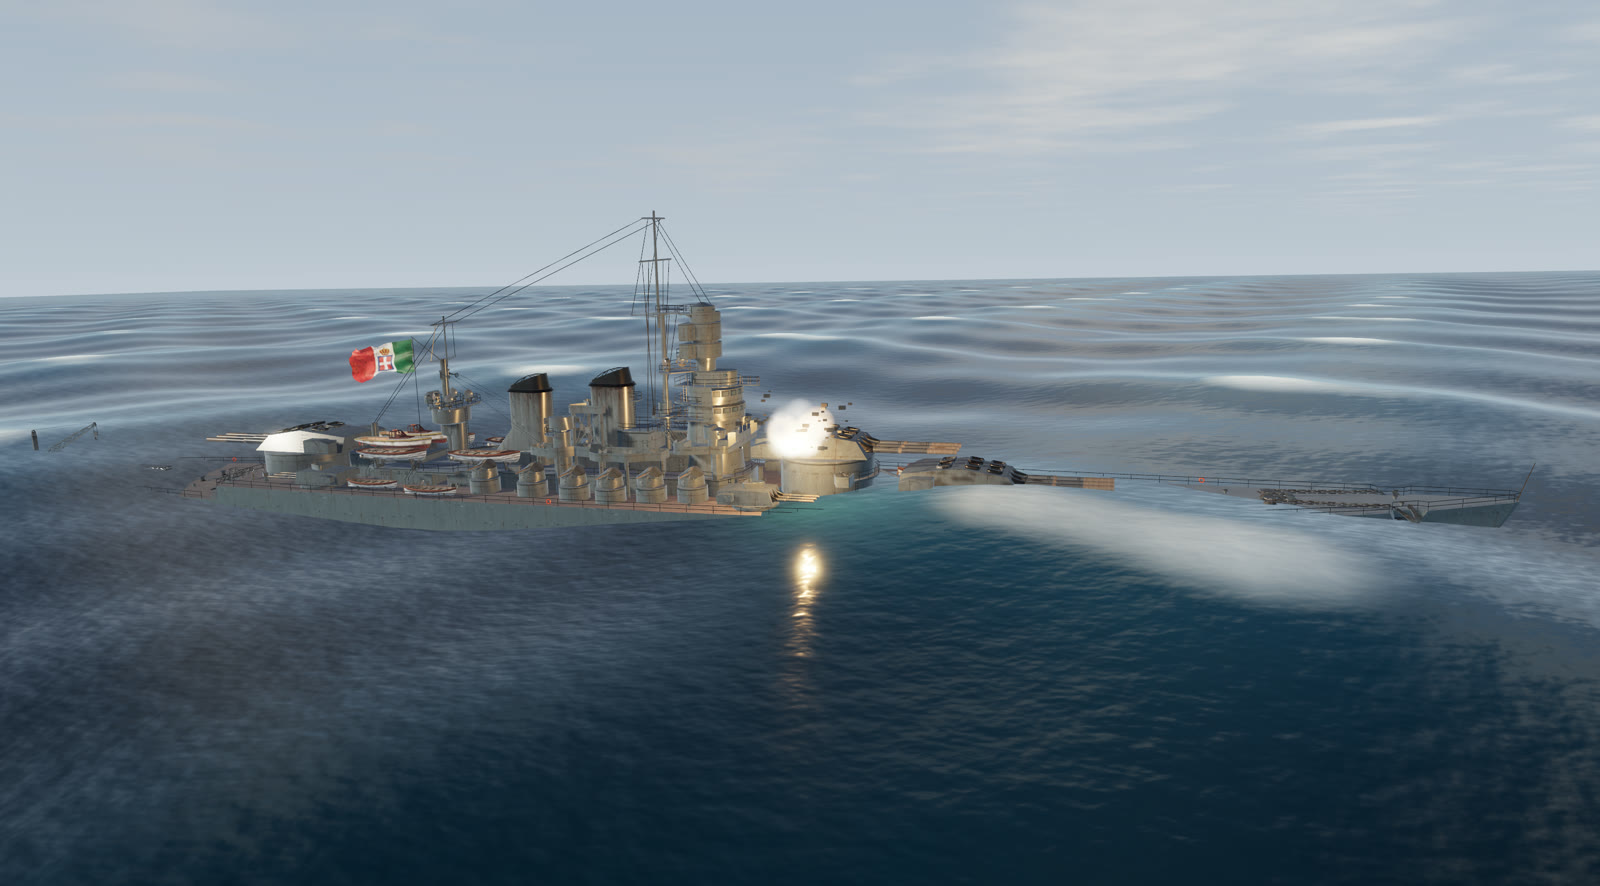
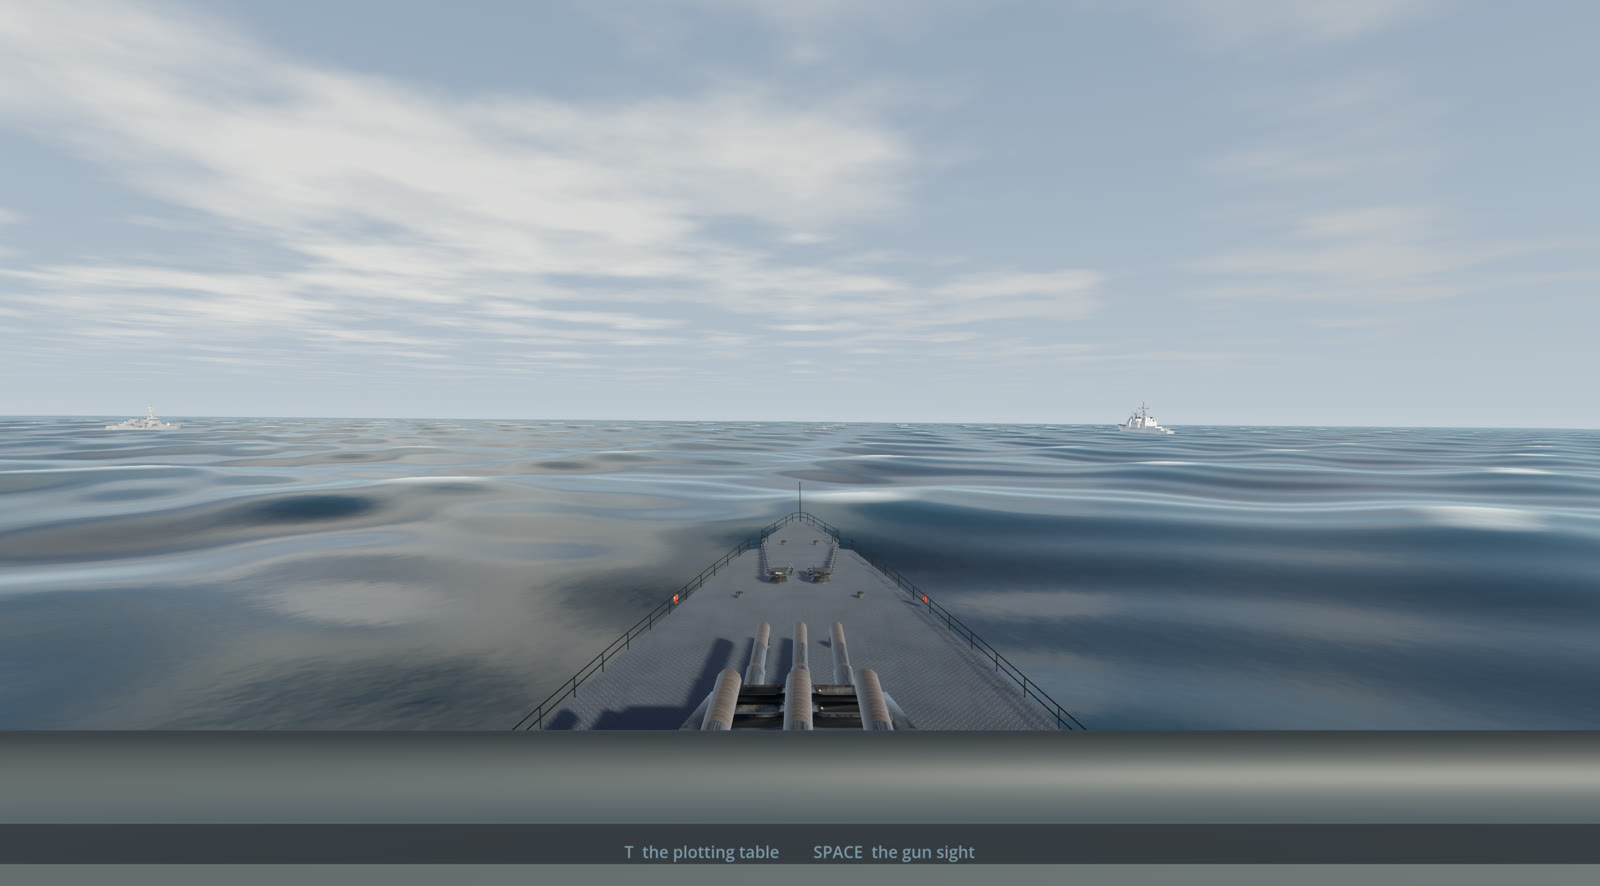
Direct Hit is now a first-person bridge game
Rewrote the card and swapped the image for the view from the bridge. The game
was rebuilt on 2026-09-17: no chart on a screen, a plotting table and a director
sight on the deck of a battleship.

diff --git a/docs/index.html b/docs/index.html
@@ -127,7 +127,7 @@ details.fold > div { padding: 2px 0 18px 22px; }
   <p class="eyebrow"><b>Portfolio</b><span>Project record · built 2026-09-17 from main</span></p>
   <h1>Portfolio</h1>
   <p class="thesis">Luqman's personal portfolio site: a single self-contained <code>index.html</code> that positions him as an <strong>AI full stack developer</strong> with 3D and game craft as the differentiator. It exists to win remote/international AI engineering roles, and it must survive a stranger opening the GitHub repo before ever speaking to him.</p>
-  <div class="stats"><div class="stat"><b>27</b><span>commits</span></div><div class="stat"><b>6</b><span>days of work</span></div><div class="stat"><b>1</b><span>source files</span></div><div class="stat"><b>1,869</b><span>lines of code</span></div><div class="stat"><b>4</b><span>decisions recorded</span></div><div class="stat"><b>4</b><span>sessions logged</span></div></div>
+  <div class="stats"><div class="stat"><b>29</b><span>commits</span></div><div class="stat"><b>6</b><span>days of work</span></div><div class="stat"><b>2</b><span>source files</span></div><div class="stat"><b>2,692</b><span>lines of code</span></div><div class="stat"><b>4</b><span>decisions recorded</span></div><div class="stat"><b>4</b><span>sessions logged</span></div></div>
   
 </header>
 <section class="chapter notes" id="overview">
@@ -787,7 +787,7 @@ grep -o &#x27;&quot;url&quot;:&quot;https:\\/\\/www\.behance\.net\\/gallery\\/[^
 <section class="chapter" id="history">
   <p class="kicker">git log on main, newest first</p>
   <h2>Git history</h2>
-  <details class="fold"><summary><span>Every commit</span></summary><div><div class="table"><table><thead><tr><th>Commit</th><th>Date</th><th>Change</th></tr></thead><tbody><tr class=""><td><code>9f3f3ec</code></td><td class="nowrap">2026-09-17</td><td>link each project record from its card</td></tr><tr class=""><td><code>2bbb17e</code></td><td class="nowrap">2026-09-17</td><td>add Direct Hit to the games section</td></tr><tr class=""><td><code>6f53775</code></td><td class="nowrap">2026-09-16</td><td>Link the Referee For Fun card to its live page</td></tr><tr class=""><td><code>5a4b83a</code></td><td class="nowrap">2026-09-16</td><td>correct Referee For Fun to six sports</td></tr><tr class=""><td><code>62d7497</code></td><td class="nowrap">2026-09-16</td><td>point the Auxetic Chess card at the live game</td></tr><tr class=""><td><code>f9c1e08</code></td><td class="nowrap">2026-09-15</td><td>auxetic chess: per-level leaderboards</td></tr><tr class=""><td><code>8aaff61</code></td><td class="nowrap">2026-09-15</td><td>Referee For Fun card: real-event venues</td></tr><tr class=""><td><code>374d5da</code></td><td class="nowrap">2026-09-15</td><td>Link Auxetic Chess and Kedai Runtuh cards to their now-public repos</td></tr><tr class=""><td><code>e6e7937</code></td><td class="nowrap">2026-09-15</td><td>Referee For Fun card: the broadcast score bug, and a line about it</td></tr><tr class=""><td><code>127790a</code></td><td class="nowrap">2026-09-15</td><td>add stop turning to the auxetic chess card</td></tr><tr class=""><td><code>08a4b15</code></td><td class="nowrap">2026-09-15</td><td>Referee For Fun: badminton is shot like a broadcast now</td></tr><tr class=""><td><code>11df4c5</code></td><td class="nowrap">2026-09-15</td><td>mention the commentators on the Referee For Fun card</td></tr><tr class=""><td><code>11e80ae</code></td><td class="nowrap">2026-09-14</td><td>correct the pawn claim on the auxetic chess card</td></tr><tr class=""><td><code>3279a9e</code></td><td class="nowrap">2026-09-14</td><td>correct the project counts for Line Call</td></tr><tr class=""><td><code>13fb017</code></td><td class="nowrap">2026-09-14</td><td>add Line Call, a playable card on top of the game work</td></tr><tr class=""><td><code>fb792bf</code></td><td class="nowrap">2026-09-14</td><td>note that pawns are frozen by the auxetic chess twist</td></tr><tr class=""><td><code>e05cce7</code></td><td class="nowrap">2026-09-13</td><td>add scribble relay card</td></tr><tr class=""><td><code>6003142</code></td><td class="nowrap">2026-09-13</td><td>stack the work gallery in one column instead of a mixed grid</td></tr><tr class=""><td><code>fb7284e</code></td><td class="nowrap">2026-09-13</td><td>correct fruit ninja vr card: 3d help for a friend, not commercial work</td></tr><tr class=""><td><code>7c7dcae</code></td><td class="nowrap">2026-09-13</td><td>correct the auxetic chess card: it is a variant, not a spin</td></tr><tr class=""><td><code>eba335a</code></td><td class="nowrap">2026-09-13</td><td>name the client on Fruit Ninja VR</td></tr><tr class=""><td><code>244aa21</code></td><td class="nowrap">2026-09-12</td><td>note the turning table on the auxetic chess card</td></tr><tr class=""><td><code>8199143</code></td><td class="nowrap">2026-09-12</td><td>add auxetic chess card</td></tr><tr class=""><td><code>8184d95</code></td><td class="nowrap">2026-09-12</td><td>add LinkedIn to the footer</td></tr><tr class=""><td><code>a181b51</code></td><td class="nowrap">2026-09-12</td><td>show all 20 projects with images, in four categories</td></tr><tr class=""><td><code>97ca745</code></td><td class="nowrap">2026-09-12</td><td>drop unsourced date from the 3D section</td></tr><tr class=""><td><code>85aa119</code></td><td class="nowrap">2026-09-12</td><td>add interactive pastel bento portfolio</td></tr></tbody></table></div></div></details>
+  <details class="fold"><summary><span>Every commit</span></summary><div><div class="table"><table><thead><tr><th>Commit</th><th>Date</th><th>Change</th></tr></thead><tbody><tr class=""><td><code>ecafc68</code></td><td class="nowrap">2026-09-17</td><td>link the record on every card whose project has one</td></tr><tr class=""><td><code>14ebbc6</code></td><td class="nowrap">2026-09-17</td><td>Add the project record</td></tr><tr class=""><td><code>9f3f3ec</code></td><td class="nowrap">2026-09-17</td><td>link each project record from its card</td></tr><tr class=""><td><code>2bbb17e</code></td><td class="nowrap">2026-09-17</td><td>add Direct Hit to the games section</td></tr><tr class=""><td><code>6f53775</code></td><td class="nowrap">2026-09-16</td><td>Link the Referee For Fun card to its live page</td></tr><tr class=""><td><code>5a4b83a</code></td><td class="nowrap">2026-09-16</td><td>correct Referee For Fun to six sports</td></tr><tr class=""><td><code>62d7497</code></td><td class="nowrap">2026-09-16</td><td>point the Auxetic Chess card at the live game</td></tr><tr class=""><td><code>f9c1e08</code></td><td class="nowrap">2026-09-15</td><td>auxetic chess: per-level leaderboards</td></tr><tr class=""><td><code>8aaff61</code></td><td class="nowrap">2026-09-15</td><td>Referee For Fun card: real-event venues</td></tr><tr class=""><td><code>374d5da</code></td><td class="nowrap">2026-09-15</td><td>Link Auxetic Chess and Kedai Runtuh cards to their now-public repos</td></tr><tr class=""><td><code>e6e7937</code></td><td class="nowrap">2026-09-15</td><td>Referee For Fun card: the broadcast score bug, and a line about it</td></tr><tr class=""><td><code>127790a</code></td><td class="nowrap">2026-09-15</td><td>add stop turning to the auxetic chess card</td></tr><tr class=""><td><code>08a4b15</code></td><td class="nowrap">2026-09-15</td><td>Referee For Fun: badminton is shot like a broadcast now</td></tr><tr class=""><td><code>11df4c5</code></td><td class="nowrap">2026-09-15</td><td>mention the commentators on the Referee For Fun card</td></tr><tr class=""><td><code>11e80ae</code></td><td class="nowrap">2026-09-14</td><td>correct the pawn claim on the auxetic chess card</td></tr><tr class=""><td><code>3279a9e</code></td><td class="nowrap">2026-09-14</td><td>correct the project counts for Line Call</td></tr><tr class=""><td><code>13fb017</code></td><td class="nowrap">2026-09-14</td><td>add Line Call, a playable card on top of the game work</td></tr><tr class=""><td><code>fb792bf</code></td><td class="nowrap">2026-09-14</td><td>note that pawns are frozen by the auxetic chess twist</td></tr><tr class=""><td><code>e05cce7</code></td><td class="nowrap">2026-09-13</td><td>add scribble relay card</td></tr><tr class=""><td><code>6003142</code></td><td class="nowrap">2026-09-13</td><td>stack the work gallery in one column instead of a mixed grid</td></tr><tr class=""><td><code>fb7284e</code></td><td class="nowrap">2026-09-13</td><td>correct fruit ninja vr card: 3d help for a friend, not commercial work</td></tr><tr class=""><td><code>7c7dcae</code></td><td class="nowrap">2026-09-13</td><td>correct the auxetic chess card: it is a variant, not a spin</td></tr><tr class=""><td><code>eba335a</code></td><td class="nowrap">2026-09-13</td><td>name the client on Fruit Ninja VR</td></tr><tr class=""><td><code>244aa21</code></td><td class="nowrap">2026-09-12</td><td>note the turning table on the auxetic chess card</td></tr><tr class=""><td><code>8199143</code></td><td class="nowrap">2026-09-12</td><td>add auxetic chess card</td></tr><tr class=""><td><code>8184d95</code></td><td class="nowrap">2026-09-12</td><td>add LinkedIn to the footer</td></tr><tr class=""><td><code>a181b51</code></td><td class="nowrap">2026-09-12</td><td>show all 20 projects with images, in four categories</td></tr><tr class=""><td><code>97ca745</code></td><td class="nowrap">2026-09-12</td><td>drop unsourced date from the 3D section</td></tr><tr class=""><td><code>85aa119</code></td><td class="nowrap">2026-09-12</td><td>add interactive pastel bento portfolio</td></tr></tbody></table></div></div></details>
 </section></main>
 </div>
 <!--mermaid-->

diff --git a/index.html b/index.html
@@ -726,11 +726,11 @@ p{margin:.7em 0}
         </div>
       </div>
     <div class="work rv" data-cat="game">
-        <div class="shot"><img src="img/direct-hit.jpg" alt="An Italian battleship under way on open ocean at the moment a shell lands amidships, fire and debris above the deck" loading="lazy" width="1600" height="886"></div>
+        <div class="shot"><img src="img/direct-hit.jpg" alt="The view from a battleship\u2019s bridge: the bulwark across the foreground, the foredeck and two triple gun turrets below, open ocean ahead" loading="lazy" width="1600" height="886"></div>
         <div class="work-body">
           <div class="work-head"><h3>Direct Hit</h3><span class="cat cat-game">Game Dev</span></div>
-          <p>Battleships, except every hit is a real ship taking a real shell. Call a square and the board steps aside: a camera drops to the water beside the vessel you just found, the round comes in, and the hull takes it &mdash; at the point along her length you actually hit her. Five real hulls on a Gerstner-wave sea, all generated live from the result of the shot rather than played back from a clip, because a pre-rendered cutscene cannot know which ship you hit or where. Computer and pass-the-device modes; the computer hunts on a checkerboard and finishes a fleet in 51 shots against 96 for guesswork.</p>
-          <div class="chips"><span class="chip">Godot 4</span><span class="chip">GDScript</span><span class="chip">Real-time 3D</span><span class="chip">Shader work</span></div>
+          <p>Battleships, fought from the bridge of a battleship. There is no chart on a screen: you stand on the Littorio with your own fleet in company, lay that fleet out on a lit plotting table, call a target on the same table, and take the shot through a director sight that gives you a bearing to lay the guns on. If the round finds something the camera goes to it &mdash; the vessel you hit, taking that shell at the point along her hull where you actually hit her &mdash; and afterwards she stays on your horizon, burning. When they fire back, you are standing on the ship they are shooting at. Everything within arm&rsquo;s reach is built in code, because a hull model meant to be seen from half a mile away does not survive being stood on.</p>
+          <div class="chips"><span class="chip">Godot 4</span><span class="chip">GDScript</span><span class="chip">First-person 3D</span><span class="chip">Shader work</span></div>
           <div class="foots"><span class="said">In testing</span><a href="https://luqman-docs.netlify.app/direct-hit/" target="_blank" rel="noopener">Read the record <span class="arrow">→</span></a></div>
         </div>
       </div>
